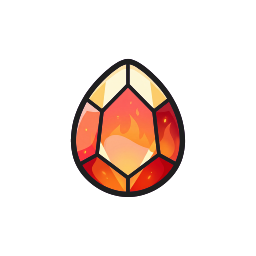
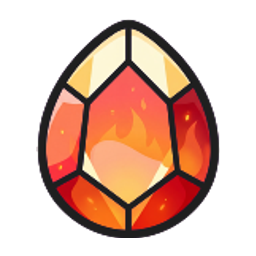
fix(art): normalize symbol sizes (uniform cap height) + taller board frame + slight symbol shrink

diff --git a/frontend/apps/prism-path/src/components/BoardFrame.svelte b/frontend/apps/prism-path/src/components/BoardFrame.svelte
@@ -11,7 +11,7 @@
 
 	const context = getContext();
 	const SPINE_SCALE = { width: 0.62, height: 0.66 };
-	const SPRITE_SCALE = { width: 1.25, height: 0.72 };
+	const SPRITE_SCALE = { width: 1.18, height: 1.2 };
 	const POSITION_ADJUSTMENT = 1.01;
 
 	type AnimationName = 'reelhouse_glow_start' | 'reelhouse_glow_idle' | 'reelhouse_glow_exit';
@@ -68,7 +68,7 @@
 	x={context.stateGameDerived.boardLayout().x * POSITION_ADJUSTMENT}
 	y={context.stateGameDerived.boardLayout().y * POSITION_ADJUSTMENT}
 	width={context.stateGameDerived.boardLayout().width * SPRITE_SCALE.width}
-	height={context.stateGameDerived.boardLayout().width * SPRITE_SCALE.height}
+	height={context.stateGameDerived.boardLayout().height * SPRITE_SCALE.height}
 />
 
 <Sprite
@@ -77,5 +77,5 @@
 	x={context.stateGameDerived.boardLayout().x * POSITION_ADJUSTMENT}
 	y={context.stateGameDerived.boardLayout().y * POSITION_ADJUSTMENT}
 	width={context.stateGameDerived.boardLayout().width * SPRITE_SCALE.width}
-	height={context.stateGameDerived.boardLayout().width * SPRITE_SCALE.height}
+	height={context.stateGameDerived.boardLayout().height * SPRITE_SCALE.height}
 />

diff --git a/frontend/apps/prism-path/src/game/constants.ts b/frontend/apps/prism-path/src/game/constants.ts
@@ -1,6 +1,6 @@
 import type { RawSymbol, SymbolState } from './types';
 
-export const SYMBOL_SIZE = 120;
+export const SYMBOL_SIZE = 112;
 
 export const REEL_PADDING = 0.53;
 
